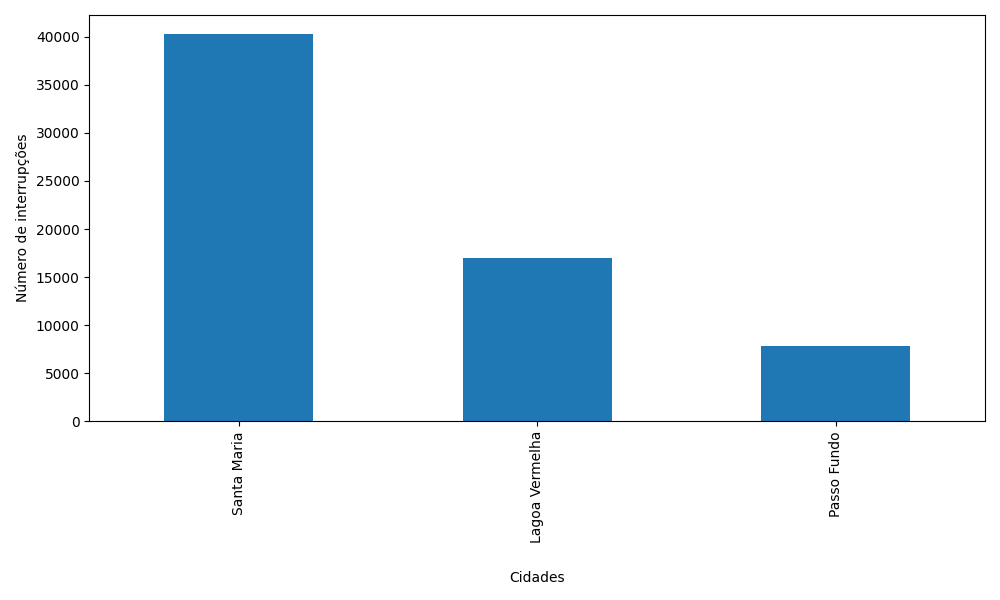
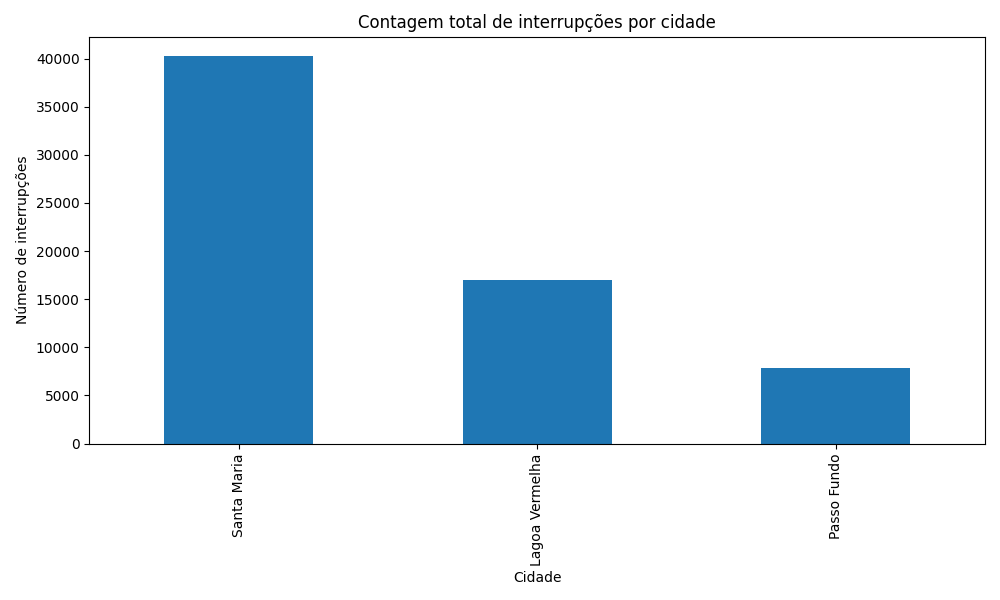
Ajuste de diretorio de pastas

diff --git a/GRAFICOS/ANEEL/app_causas_interrupções.py b/GRAFICOS/ANEEL/app_causas_interrupções.py
@@ -3,7 +3,7 @@ import pandas as pd
 import matplotlib.pyplot as plt
 
 # Diretório dos arquivos ANEEL filtrados
-aneel_filtrados_dir = '../ANEEL/Data/Filtrados'
+aneel_filtrados_dir = '../../ANEEL/Data/Filtrados'
 anos = ['2020', '2021', '2022', '2023', '2024']
 
 # Lista para armazenar todas as interrupções
@@ -29,6 +29,10 @@ cidade_col = 'DscConjuntoUnidadeConsumidora'
 # Contagem total de interrupções por cidade
 contagem = df_total[cidade_col].value_counts().sort_values(ascending=False)
 
+# Garante que a pasta Images/ANEEL existe
+images_dir = os.path.join('../Images', 'ANEEL')
+os.makedirs(images_dir, exist_ok=True)
+
 # Gráfico
 plt.figure(figsize=(10, 6))
 contagem.plot(kind='bar')
@@ -36,5 +40,5 @@ plt.title('Contagem total de interrupções por cidade')
 plt.xlabel('Cidade')
 plt.ylabel('Número de interrupções')
 plt.tight_layout()
-plt.savefig('contagem_interrupcoes_por_cidade.png')
+plt.savefig(os.path.join(images_dir, 'contagem_interrupcoes_por_cidade.png'))
 plt.show()

diff --git a/GRAFICOS/ANEEL/app_distribuicao_anual_interrupcoes.py b/GRAFICOS/ANEEL/app_distribuicao_anual_interrupcoes.py
@@ -3,7 +3,7 @@ import matplotlib.pyplot as plt
 import seaborn as sns
 import os
 
-DATA_FILTRADOS = "../ANEEL/Data/Filtrados"
+DATA_FILTRADOS = "../../ANEEL/Data/Filtrados"
 
 arquivos_csv = [
     'interrupcoes_rge_sul_filtrado_2020.csv',
@@ -42,7 +42,7 @@ if df_total.empty:
 contagem_por_ano = df_total['Ano'].value_counts().sort_index()
 
 # Garante que a pasta Images existe
-images_dir = 'Images'
+images_dir = '../Images/ANEEL'
 os.makedirs(images_dir, exist_ok=True)
 sns.set_style("whitegrid")
 plt.figure(figsize=(10, 6))

diff --git a/GRAFICOS/ANEEL/app_graficos_contagem_total_interrupcoes_cidade.py b/GRAFICOS/ANEEL/app_graficos_contagem_total_interrupcoes_cidade.py
@@ -3,7 +3,7 @@ import matplotlib.pyplot as plt
 import seaborn as sns
 import os
 
-DATA_FILTRADOS = "../ANEEL/Data/Filtrados"
+DATA_FILTRADOS = "../../ANEEL/Data/Filtrados"
 
 arquivos_csv = [
     'interrupcoes_rge_sul_filtrado_2020.csv',
@@ -72,7 +72,7 @@ if df_final.empty:
     exit()
 
 # Garante que a pasta Images existe
-images_dir = 'Images'
+images_dir = '../Images/ANEEL'
 os.makedirs(images_dir, exist_ok=True)
 
 print(f"✅ Total de registros climáticos para análise: {len(df_final)}")
